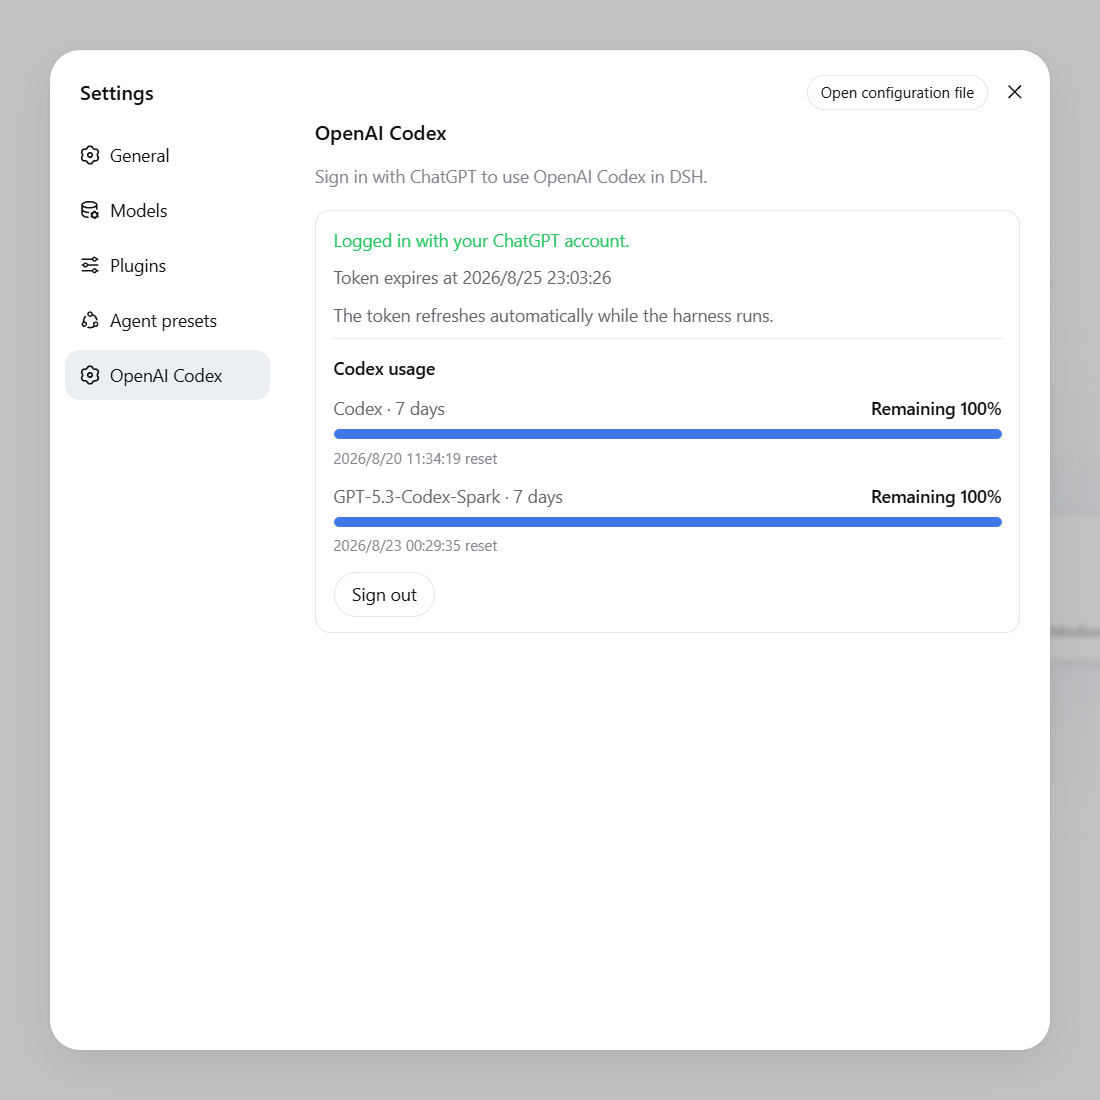
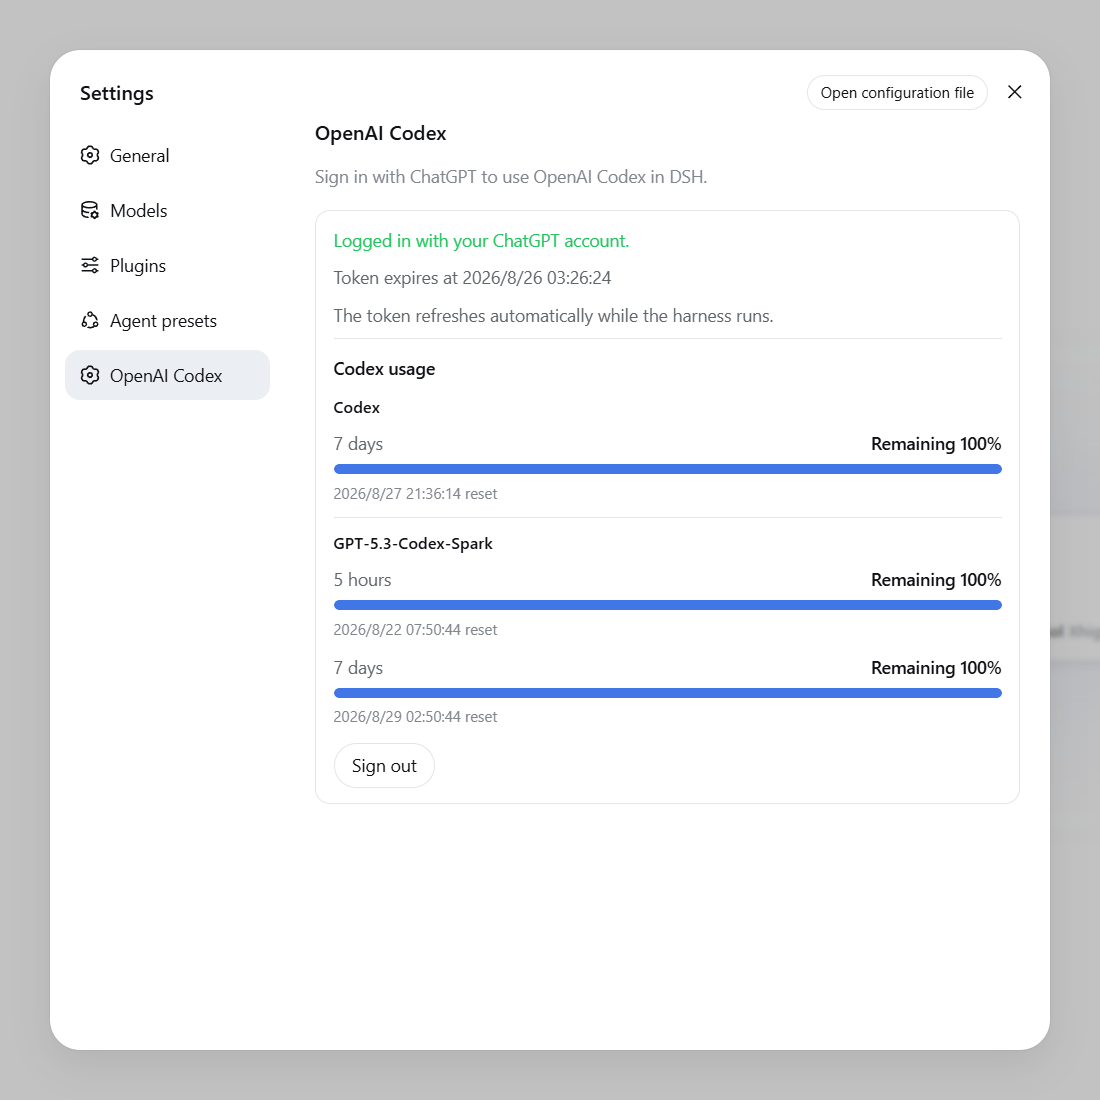
feat: group usage limits by model

Changed region(s): [[0.3091, 0.3709, 0.9273, 0.7109], [0.4945, 0.2473, 0.5564, 0.2782]]

diff --git a/lib/client.js b/lib/client.js
@@ -195,12 +195,24 @@ window.__ModuleLoader__.load({
 			return Number.isInteger(remaining) ? String(remaining) : remaining.toFixed(1);
 		}
 
-		function usageLimitLabel(limit, t) {
-			return `${limit.name} · ${usageWindowText(limit.windowSeconds, t)}`;
+		function groupUsageLimits(limits) {
+			const groups = [];
+			const byName = new Map();
+			for (const limit of limits) {
+				let group = byName.get(limit.name);
+				if (group === void 0) {
+					group = { name: limit.name, limits: [] };
+					byName.set(limit.name, group);
+					groups.push(group);
+				}
+				group.limits.push(limit);
+			}
+			return groups;
 		}
 
 		function UsageLimit({ limit, t }) {
-			const label = usageLimitLabel(limit, t);
+			const windowLabel = usageWindowText(limit.windowSeconds, t);
+			const label = `${limit.name} · ${windowLabel}`;
 			const remaining = remainingPercent(limit.usedPercent);
 			const resetAt = expiryText(limit.resetAt);
 			return (0, react_jsx_runtime.jsxs)("div", {
@@ -211,7 +223,7 @@ window.__ModuleLoader__.load({
 						children: [
 							(0, react_jsx_runtime.jsx)("span", {
 								style: usageLimitNameStyle,
-								children: label
+								children: windowLabel
 							}),
 							(0, react_jsx_runtime.jsx)("span", {
 								style: usagePercentStyle,
@@ -233,6 +245,27 @@ window.__ModuleLoader__.load({
 					resetAt === void 0 ? null : (0, react_jsx_runtime.jsx)("p", {
 						style: usageResetStyle,
 						children: `${resetAt} ${t("resets")}`
+					})
+				]
+			});
+		}
+
+		function UsageGroup({ group, t, separated }) {
+			return (0, react_jsx_runtime.jsxs)("div", {
+				role: "group",
+				"aria-label": group.name,
+				style: separated ? { ...usageGroupStyle, ...usageGroupSeparatedStyle } : usageGroupStyle,
+				children: [
+					(0, react_jsx_runtime.jsx)("p", {
+						style: usageGroupTitleStyle,
+						children: group.name
+					}),
+					(0, react_jsx_runtime.jsx)("div", {
+						style: usageGroupLimitsStyle,
+						children: group.limits.map((limit, index) => (0, react_jsx_runtime.jsx)(UsageLimit, {
+							limit,
+							t
+						}, `${limit.windowSeconds}-${index}`))
 					})
 				]
 			});
@@ -359,6 +392,7 @@ window.__ModuleLoader__.load({
 			const flowError = section === void 0 ? void 0 : section["error"];
 			const hasDeviceCode = typeof deviceCode === "string" && deviceCode.length > 0;
 			const usageLimits = usageLimitsOf(section === void 0 ? void 0 : section["usageLimits"]);
+			const usageGroups = groupUsageLimits(usageLimits);
 			const usageError = section === void 0 ? void 0 : section["usageError"];
 			const usageCredits = section === void 0 ? void 0 : section["usageCredits"];
 			const usageCreditsUnlimited = section !== void 0 && section["usageCreditsUnlimited"] === true;
@@ -453,10 +487,14 @@ window.__ModuleLoader__.load({
 										style: statusLineStyle,
 										children: t("loadingUsage")
 									}) : null,
-									...usageLimits.map((limit, index) => (0, react_jsx_runtime.jsx)(UsageLimit, {
-										limit,
-										t
-									}, `${limit.name}-${limit.windowSeconds}-${index}`)),
+									usageGroups.length === 0 ? null : (0, react_jsx_runtime.jsx)("div", {
+										style: usageGroupsStyle,
+										children: usageGroups.map((group, index) => (0, react_jsx_runtime.jsx)(UsageGroup, {
+											group,
+											t,
+											separated: index > 0
+										}, group.name))
+									}),
 									usageCreditsUnlimited ? (0, react_jsx_runtime.jsx)("p", {
 										style: statusLineStyle,
 										children: `${t("credits")}: ${t("unlimited")}`
@@ -599,6 +637,11 @@ window.__ModuleLoader__.load({
 		const statusLineStyle = { color: "var(--dsw-alias-label-secondary)", margin: 0, fontSize: "14px", lineHeight: "22px" };
 		const usageBoxStyle = { width: "100%", boxSizing: "border-box", borderTop: "1px solid var(--dsw-alias-border-l2)", paddingTop: "12px", display: "flex", flexDirection: "column", gap: "10px" };
 		const usageTitleStyle = { color: "var(--dsw-alias-label-primary)", margin: 0, fontSize: "14px", fontWeight: 500, lineHeight: "22px" };
+		const usageGroupsStyle = { width: "100%", display: "flex", flexDirection: "column", gap: "10px" };
+		const usageGroupStyle = { width: "100%", display: "flex", flexDirection: "column", gap: "8px" };
+		const usageGroupSeparatedStyle = { borderTop: "1px solid var(--dsw-alias-border-l2)", paddingTop: "10px" };
+		const usageGroupTitleStyle = { color: "var(--dsw-alias-label-primary)", margin: 0, fontSize: "13px", fontWeight: 500, lineHeight: "20px" };
+		const usageGroupLimitsStyle = { width: "100%", display: "flex", flexDirection: "column", gap: "10px" };
 		const usageLimitStyle = { width: "100%", display: "flex", flexDirection: "column", gap: "6px" };
 		const usageLimitHeaderStyle = { width: "100%", display: "flex", alignItems: "baseline", justifyContent: "space-between", gap: "12px" };
 		const usageLimitNameStyle = { color: "var(--dsw-alias-label-secondary)", fontSize: "14px", lineHeight: "22px" };
